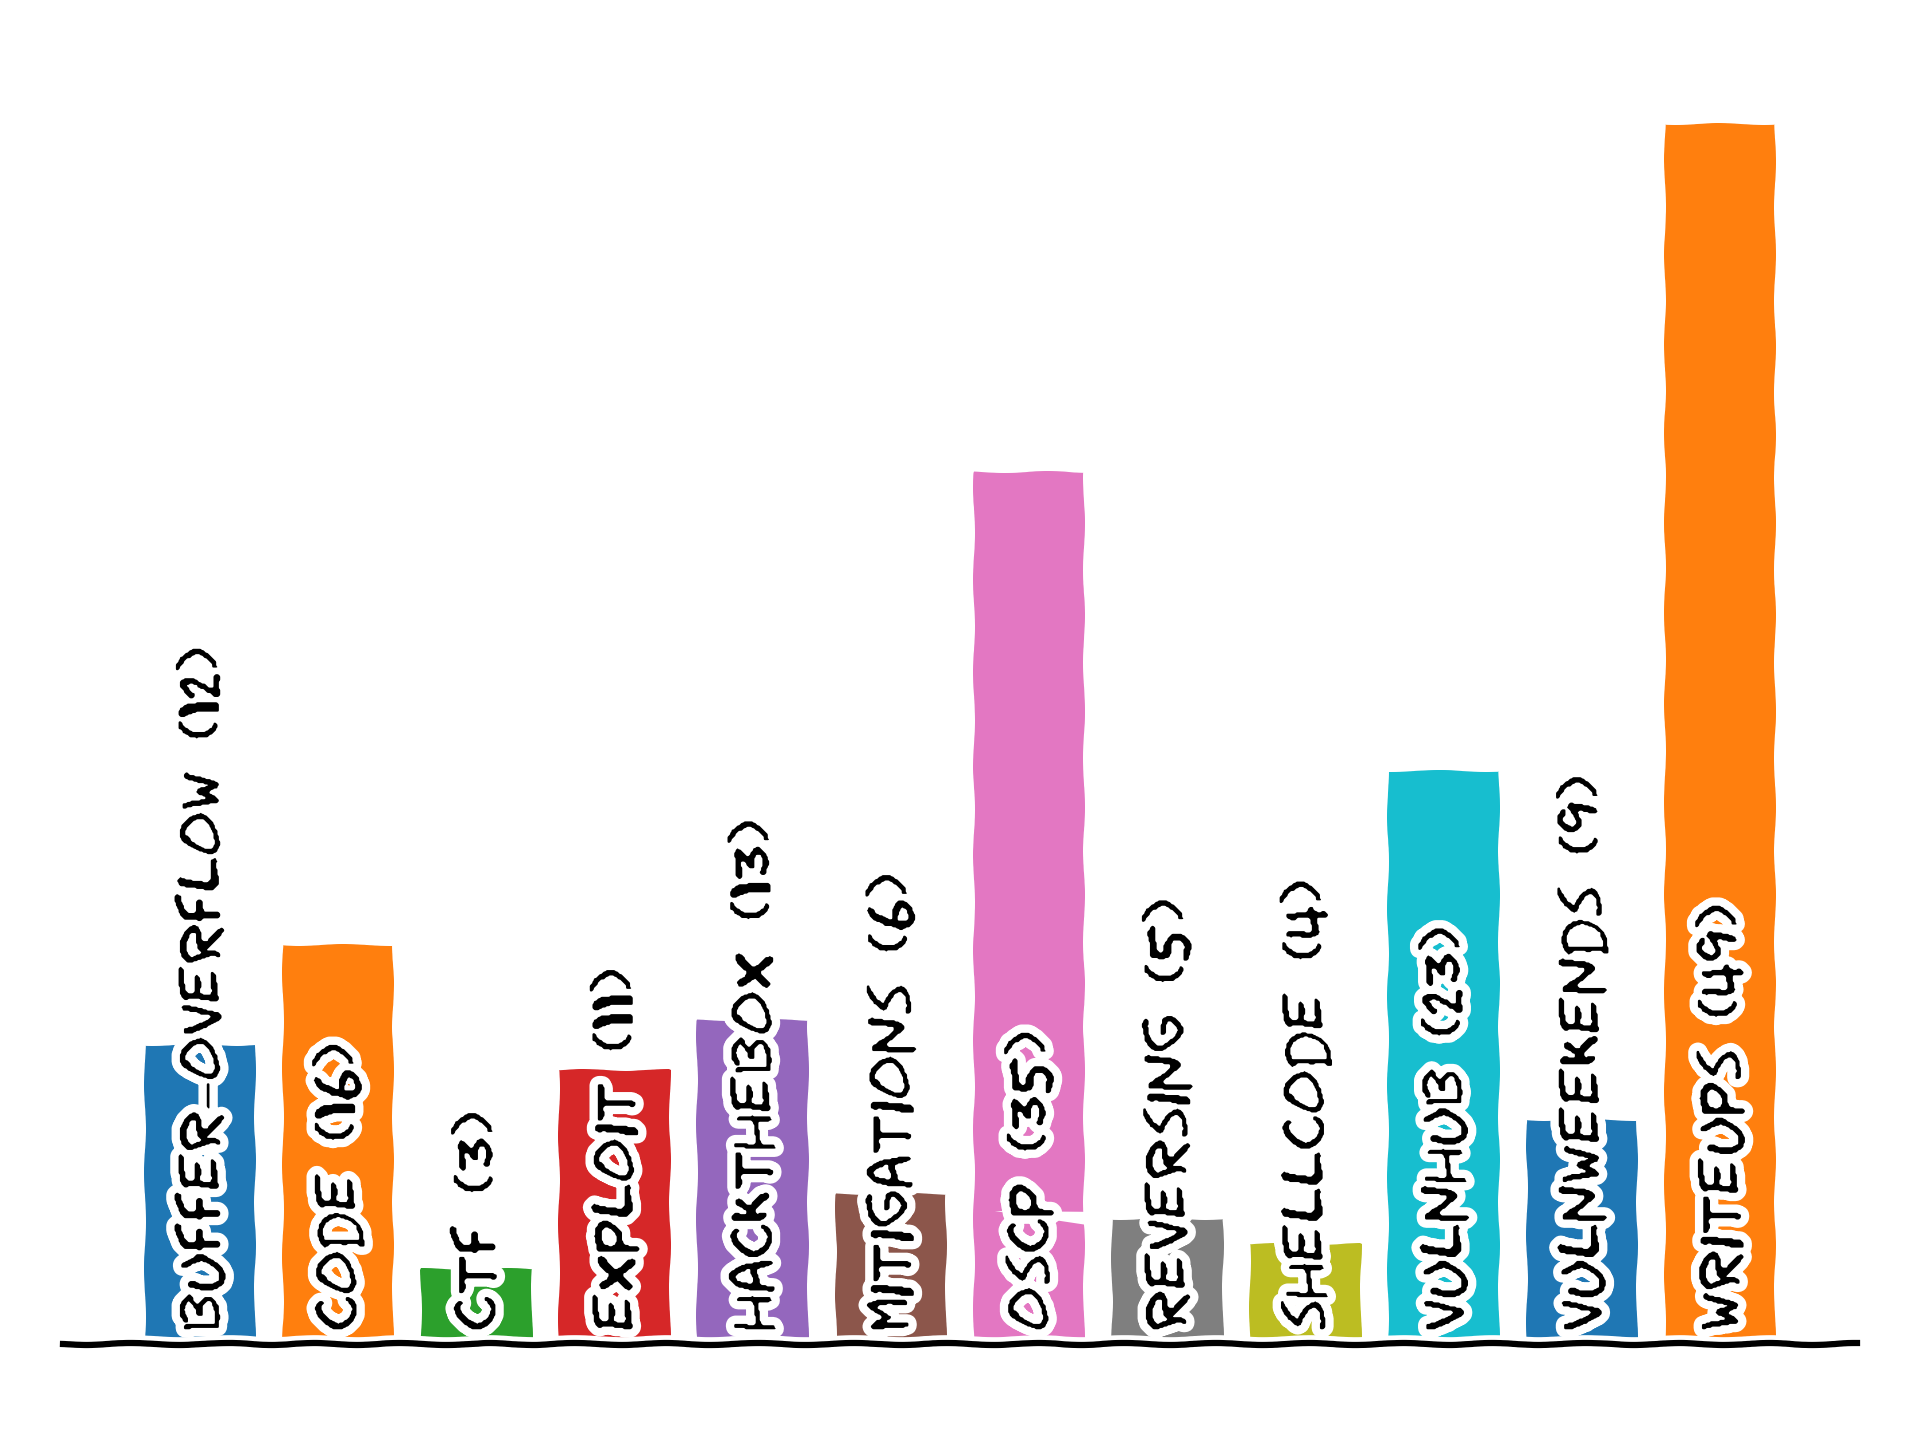
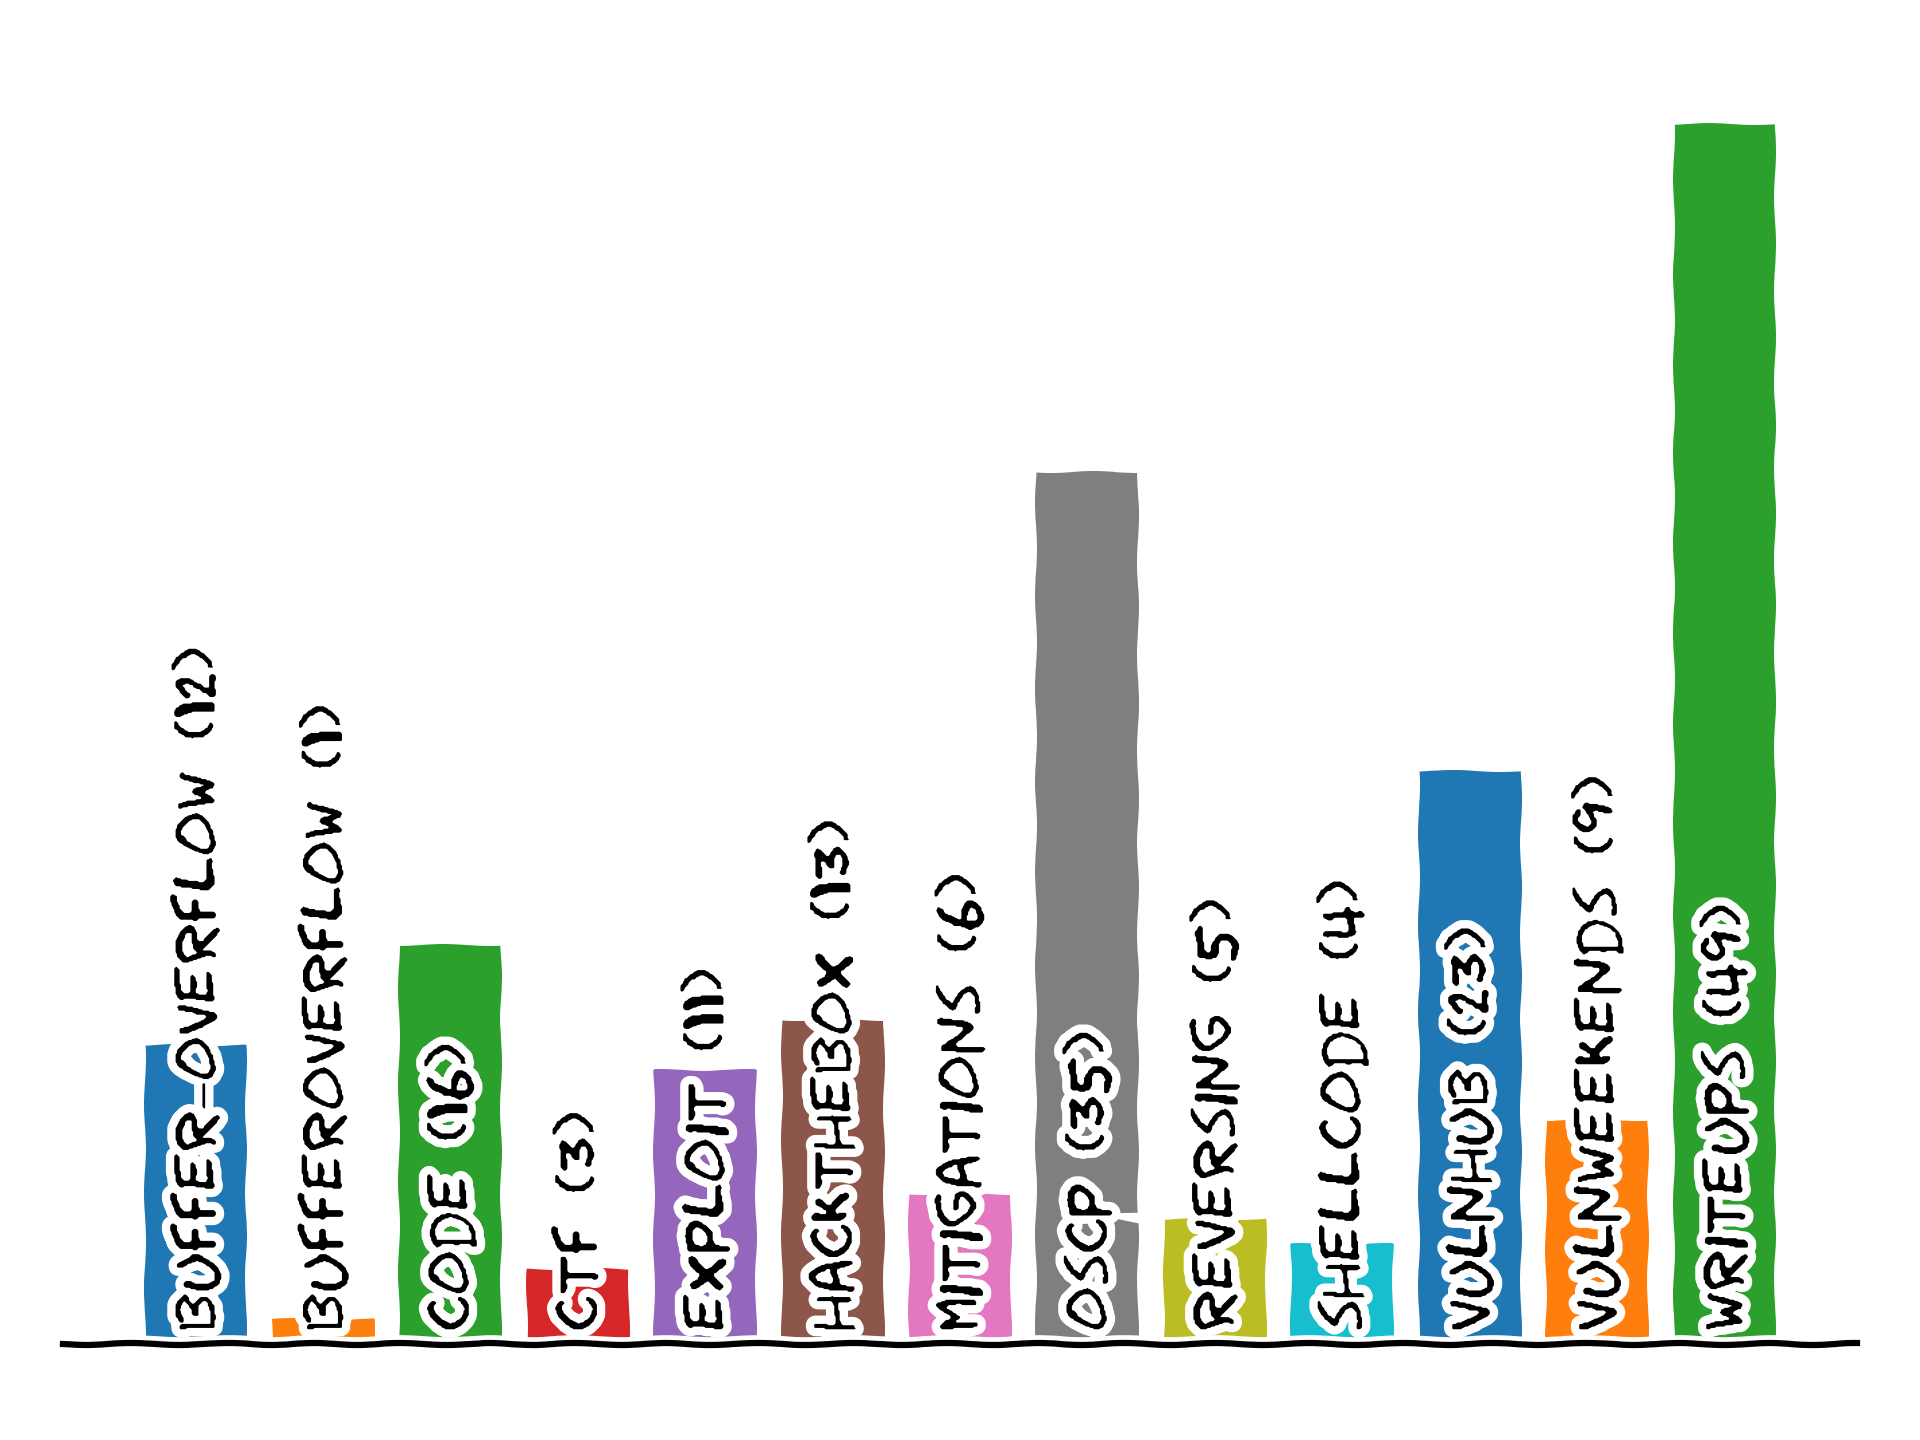
⚡  Committing in accordance with the prophecy.

Changed region(s): [[0.0625, 0.0625, 0.9375, 0.9375], [0.0938, 0.4375, 0.125, 0.5], [0.1562, 0.5, 0.1875, 0.5312]]

diff --git a/tags.html b/tags.html
@@ -23,18 +23,19 @@
     <div class="body">
           <h1>🔖 Tags <a name="top"></a></h1>
         <ul id="cloud">
-                      <li><a style="font-size:1.0em; color:#20b2aa; padding:20px 5px 20px 5px;" href="/tags.html#ctf">ctf</a></li>
-                      <li><a style="font-size:2.0em; color:#fe4164; padding:20px 5px 20px 5px;" href="/tags.html#buffer_overflow">buffer_overflow</a></li>
-                      <li><a style="font-size:4.5em; font-weight:bold; color:#99cc99; padding:0px 5px 0px 5px;" href="/tags.html#oscp">oscp</a></li>
-                      <li><a style="font-size:2.5em; font-weight:bold; color:#5b92e5; padding:20px 5px 20px 5px;" href="/tags.html#code">code</a></li>
-                      <li><a style="font-size:3.0em; color:#0c9; padding:20px 5px 20px 5px;" href="/tags.html#vulnhub">vulnhub</a></li>
-                      <li><a style="font-size:1.5em; font-weight:bold; color:#69359c; padding:20px 5px 20px 5px;" href="/tags.html#mitigations">mitigations</a></li>
-                      <li><a style="font-size:1.5em; font-weight:bold; color:#69359c; padding:20px 5px 20px 5px;" href="/tags.html#vulnweekends">vulnweekends</a></li>
-                      <li><a style="font-size:1.5em; font-weight:bold; color:#69359c; padding:20px 5px 20px 5px;" href="/tags.html#reversing">reversing</a></li>
-                      <li><a style="font-size:5.5em; font-weight:bold; color:#20b2aa; padding:0px 5px 0px 5px;" href="/tags.html#writeups">writeups</a></li>
-                      <li><a style="font-size:2.0em; color:#fe4164; padding:20px 5px 20px 5px;" href="/tags.html#exploit">exploit</a></li>
-                      <li><a style="font-size:1.0em; color:#20b2aa; padding:20px 5px 20px 5px;" href="/tags.html#shellcode">shellcode</a></li>
-                      <li><a style="font-size:2.0em; color:#fe4164; padding:20px 5px 20px 5px;" href="/tags.html#hackthebox">hackthebox</a></li>
+                      <li><a style="font-size:5.5em; font-weight:bold; color:#0c9; padding:0px 5px 0px 5px;" href="/tags.html#writeups">writeups</a></li>
+                      <li><a style="font-size:2.0em; color:#20b2aa; padding:20px 5px 20px 5px;" href="/tags.html#hackthebox">hackthebox</a></li>
+                      <li><a style="font-size:2.0em; color:#20b2aa; padding:20px 5px 20px 5px;" href="/tags.html#buffer_overflow">buffer_overflow</a></li>
+                      <li><a style="font-size:2.5em; font-weight:bold; color:#69359c; padding:20px 5px 20px 5px;" href="/tags.html#code">code</a></li>
+                      <li><a style="font-size:1.5em; font-weight:bold; color:#99cc99; padding:20px 5px 20px 5px;" href="/tags.html#reversing">reversing</a></li>
+                      <li><a style="font-size:4.5em; font-weight:bold; color:#00b7eb; padding:0px 5px 0px 5px;" href="/tags.html#oscp">oscp</a></li>
+                      <li><a style="font-size:1.5em; font-weight:bold; color:#99cc99; padding:20px 5px 20px 5px;" href="/tags.html#mitigations">mitigations</a></li>
+                      <li><a style="font-size:1.0em; color:#0c9; padding:20px 5px 20px 5px;" href="/tags.html#ctf">ctf</a></li>
+                      <li><a style="font-size:2.0em; color:#20b2aa; padding:20px 5px 20px 5px;" href="/tags.html#exploit">exploit</a></li>
+                      <li><a style="font-size:1.5em; font-weight:bold; color:#99cc99; padding:20px 5px 20px 5px;" href="/tags.html#vulnweekends">vulnweekends</a></li>
+                      <li><a style="font-size:3.0em; color:#fe4164; padding:20px 5px 20px 5px;" href="/tags.html#vulnhub">vulnhub</a></li>
+                      <li><a style="font-size:1.0em; color:#0c9; padding:20px 5px 20px 5px;" href="/tags.html#shellcode">shellcode</a></li>
+                      <li><a style="font-size:1.0em; color:#0c9; padding:20px 5px 20px 5px;" href="/tags.html#bufferoverflow">bufferoverflow</a></li>
                   </ul>
                   <a name="buffer_overflow"></a>
           <h2>buffer_overflow <a href="#top"> ↟ </a></h2>
@@ -51,6 +52,11 @@
                                                                               <li><code>02/Sep/2012</code>: <a href="/posts/20120902_millenium-mpf-seh.html">Millennium MP3 Studio .mpf File Parsing SEH Overflow</a></li>
                                                                               <li><code>02/Sep/2012</code>: <a href="/posts/20120902_tfm-mmplayer-ppl-seh.html">TFM MMPlayer .ppl File Parsing SEH Overflow</a></li>
                                                                                                                                               <li><code>27/Aug/2012</code>: <a href="/posts/20120827_geras-wuos-stack1-solutions.html">Gera's Warming Up on Stack #1 - Solutions</a></li>
+                                                                                                              </ol>
+                  <a name="bufferoverflow"></a>
+          <h2>bufferoverflow <a href="#top"> ↟ </a></h2>
+          <ol>
+                                                                                                        <li><code>31/Aug/2019</code>: <a href="/posts/20190831_vulnhub-brainpan.html">[VulnHub] Brainpan: 1</a></li>
                                                                                                               </ol>
                   <a name="code"></a>
           <h2>code <a href="#top"> ↟ </a></h2>

diff --git a/posts/20190831_vulnhub-brainpan.html b/posts/20190831_vulnhub-brainpan.html
@@ -106,7 +106,7 @@ Service detection performed. Please report any incorrect results at https://nmap
 </code></pre>
 
 <h2>Phase #2: Exploitation</h2>
-<p>1. BoF in a vulnerable service running on <code>9999/tcp</code>. File for the vulnerable service is avilable for download via a HTTP server running on <code>10000/tcp</code>. Analyze the service, create exploit and gain remote access to VM.  </p>
+<p>1. There's a buffer overflow vulnerability in the service running on <code>9999/tcp</code>. We have access to the vulnerable service file via a HTTP server running on <code>10000/tcp</code>. Analyze the service, create exploit and gain remote access to VM.  </p>
 <p><img alt="writeup.exploitation.steps.1.1" src="/static/files/posts_vulnhub_brainpan/writeup.exploitation.screenshot.png" />  </p>
 <h2>Phase #2.5: Post Exploitation</h2>
 <pre><code>puck@brainpan&gt; id
@@ -147,7 +147,7 @@ puck:$6$A/mZxJX0$Zmgb3T6SAq.FxO1gEmbIcBF9Oi7q2eAi0TMMqOhg0pjdgDjBr0p2NBpIRqs4OIE
 <li><a href="https://isroot.nl/2019/05/12/vulnhub-write-up-brainpan-1/">https://isroot.nl/2019/05/12/vulnhub-write-up-brainpan-1/</a>  </li>
 <li><a href="https://d7x.promiselabs.net/2018/03/04/ctf-brainpan-1-ctf-walkthrough-introduction-to-exploit-development-part-i/">https://d7x.promiselabs.net/2018/03/04/ctf-brainpan-1-ctf-walkthrough-introduction-to-exploit-development-part-i/</a>  </li>
 </ul>
-        <p style="text-align:center;">(🔖 tagged <a href=/tags.html#oscp>oscp</a>, <a href=/tags.html#vulnhub>vulnhub</a> and <a href=/tags.html#writeups>writeups</a>)</p>
+        <p style="text-align:center;">(🔖 tagged <a href=/tags.html#bufferoverflow>bufferoverflow</a>, <a href=/tags.html#oscp>oscp</a>, <a href=/tags.html#vulnhub>vulnhub</a> and <a href=/tags.html#writeups>writeups</a>)</p>
                   <p style="text-align:center;">« <a href="/posts/20160312_circllu.html">circllu.py: Querying circl.lu ...</a> « | » <a href="/posts/20190905_vulnhub-billymadison1dot1.html">[VulnHub] Billy Madison: 1.1...</a> »</p>
             </div>
     <div class="footer">

diff --git a/stats.html b/stats.html
@@ -24,12 +24,12 @@
           <h1>📊 Stats <a name="top"></a></h1>
         <h2>📋 Summary <a href="#top"> ↟ </a></h2>
           <ul>
-                      <li>There are a total of <code>77</code> posts with <code>12</code> tags, written over a period of <code>8y7m9d</code> (from <code>16/Nov/2011</code> till <code>25/Jun/2020</code>)</li>
+                      <li>There are a total of <code>77</code> posts with <code>13</code> tags, written over a period of <code>8y7m9d</code> (from <code>16/Nov/2011</code> till <code>25/Jun/2020</code>)</li>
                       <li>From the most recent update (on <code>10/Jul/2020</code>), it's been <code>0y0m15d</code> when the last post was published and <code>8y7m24d</code> since the first post</li>
                       <li>The year <code>2019</code> has highest number of posts with a count of <code>34</code>, while the year <code>2020</code> has lowest number of posts with a count of <code>2</code></li>
                       <li>The year <code>2013</code> has highest number of tags with a count of <code>7</code>, while the year <code>2011</code> has lowest number of tags with a count of <code>1</code></li>
-                      <li>The most widely used of all <code>12</code> tags across <code>77</code> posts is <code>writeups</code> while the least used is <code>ctf</code></li>
-                      <li>On an average, there are <code>15</code> posts per tag and <code>9</code> posts, <code>4</code> tags per year</li>
+                      <li>The most widely used of all <code>13</code> tags across <code>77</code> posts is <code>writeups</code> while the least used is <code>bufferoverflow</code></li>
+                      <li>On an average, there are <code>14</code> posts per tag and <code>9</code> posts, <code>4</code> tags per year</li>
                     </ul>
         <h2>📈 Graphs <a href="#top"> ↟ </a></h2>
           <h3>Posts per Tag <a href="#top"> ↟ </a></h3>

diff --git a/index.html b/index.html
@@ -23,8 +23,7 @@
     <div class="body">
           <h1>Ankur Tyagi</h1>
         <p>|| नमस्ते 🙏 ||</p>
-<p>This is a web space where I document ideas and list updates on several topics of interest (mostly
-<a href="/tags.html">security</a>, <a href="/tags.html#code">programming</a></a> and <a href="/tags.html#writeups">problem solving</a></a>).
+<p>This is a web space where I document ideas and list updates on several topics of interest.
 If you wish to connect or provide feedback, use an option below:</p>
         <ul>
                   <li><a href="mailto:echo 2s6eln@vncad.bzn | tr [62cbvsadnzel] [37acghilmorA]" target="_blank">📧 Email</a></li>

diff --git a/_posts/vulnhub-brainpan.md b/_posts/vulnhub-brainpan.md
@@ -2,7 +2,7 @@
 ===============
 date: 31/Aug/2019
 summary: This is the summary for an awesome post.
-tags: oscp, vulnhub, writeups
+tags: oscp, vulnhub, writeups, bufferoverflow
 
 ## Overview
 This is a writeup for VulnHub VM [Brainpan: 1](https://www.vulnhub.com/entry/brainpan-1,51/). Here's an overview of the `enumeration` → `exploitation` → `privilege escalation` process:
@@ -85,7 +85,7 @@ http://192.168.92.141:10000/bin/brainpan.exe
 ```
 
 ## Phase #2: Exploitation
-1\. BoF in a vulnerable service running on `9999/tcp`. File for the vulnerable service is avilable for download via a HTTP server running on `10000/tcp`. Analyze the service, create exploit and gain remote access to VM.  
+1\. There's a buffer overflow vulnerability in the service running on `9999/tcp`. We have access to the vulnerable service file via a HTTP server running on `10000/tcp`. Analyze the service, create exploit and gain remote access to VM.  
 
 ![writeup.exploitation.steps.1.1](/static/files/posts_vulnhub_brainpan/writeup.exploitation.screenshot.png)  
 
